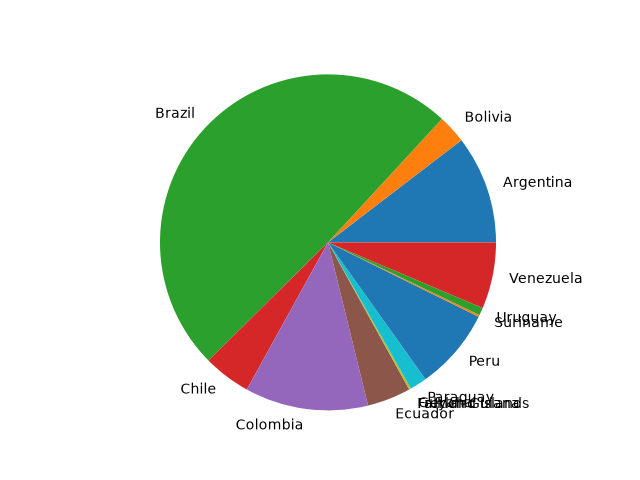
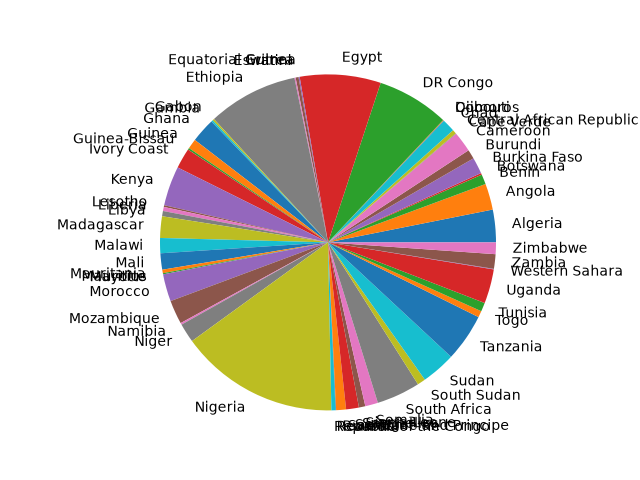
Agregamos la clase de pandas al repo, todo funciona perfecto

Changed region(s): [[0.0938, 0.0938, 1.0, 0.9062]]

diff --git a/app/main.py b/app/main.py
@@ -1,15 +1,24 @@
 import utils
 import read_csv
 import charts
+import pandas as pd
 
 def run():
+  '''
   data = read_csv.read_csv('./data.csv') # leemos el csv, gracias al módulo línea 2
   data = list(filter(lambda item : item['Continent'] == 'South America',data))
 
   countries = list(map(lambda x: x['Country'], data))
   percentages = list(map(lambda x: float(x['World Population Percentage']), data))
   charts.generate_pie_chart(countries, percentages)
+  '''
+  df = pd.read_csv('data.csv') # Estamos leyendo el archivo csv
+  df = df[df['Continent'] == 'Africa']
+  countries = df['Country'].values
+  percentages = df['World Population Percentage'].values
+  charts.generate_pie_chart(countries, percentages)
   
+  data = read_csv.read_csv('./data.csv')
   country = input('Type Country => ')
   print(country)
 
